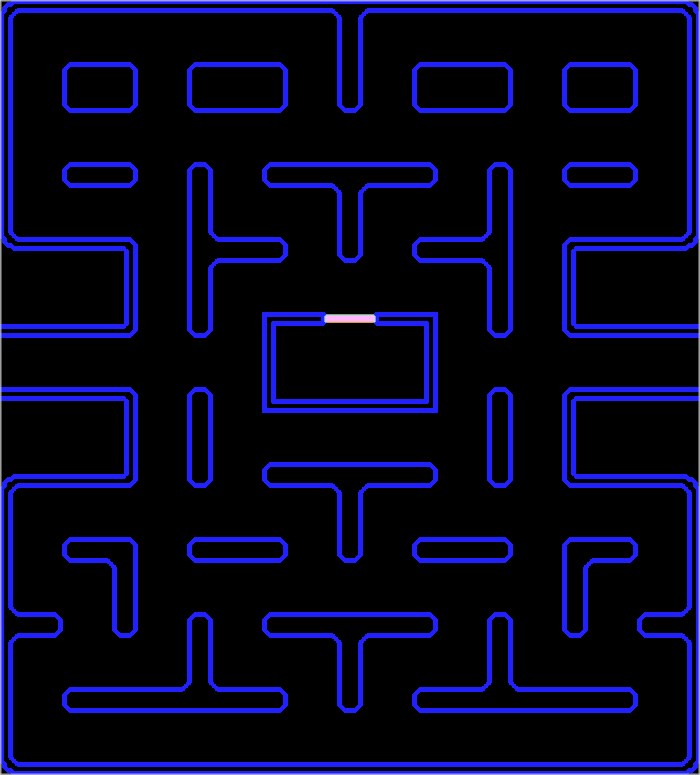
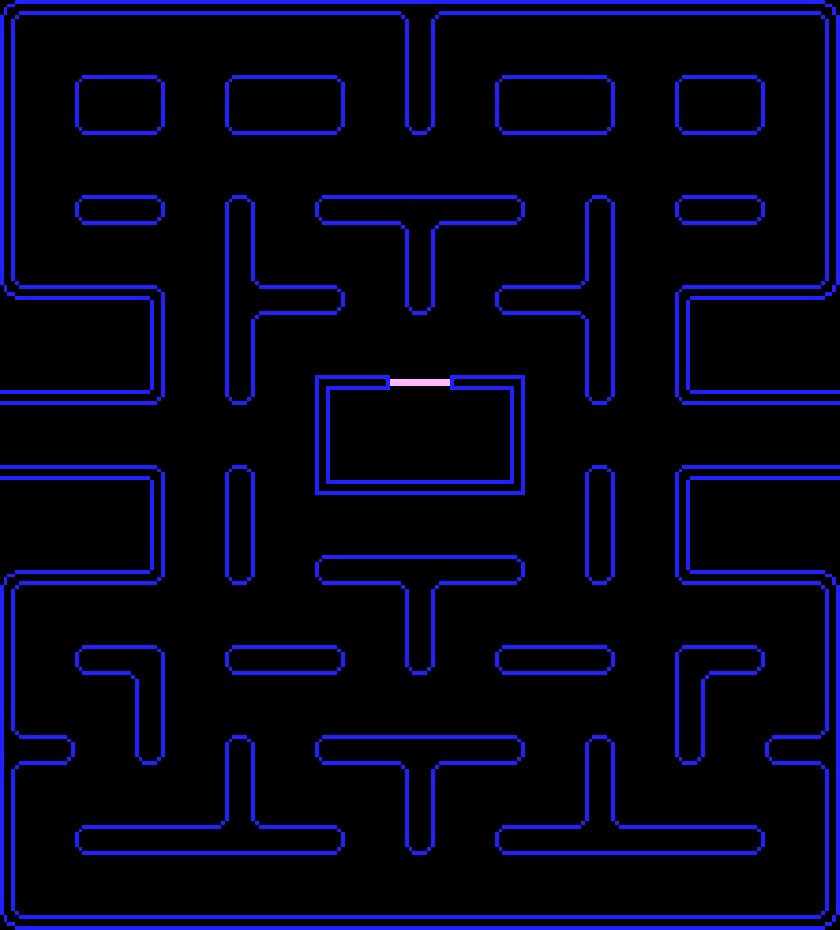
broken collision detection

diff --git a/src/stage.c b/src/stage.c
@@ -20,6 +20,8 @@ static void initMap(void);
 
 static void renderPlayer(void);
 
+static SDL_bool checkCollisions(void);
+
 static void renderMap(void);
 
 static void handlePlayer(void);
@@ -45,8 +47,12 @@ static void initPlayer(void) {
     memset(player, 0, sizeof(PlayerEntity));
     stage.player = player;
 
-    player->x = 100;
-    player->y = 100;
+    player->x = 30;
+    player->y = 30;
+
+    player->rect =
+        (SDL_Rect){.w = 25, .h = 25, .x = player->x + 15, .y = player->y + 15};
+
     player->texture = loadTexture("assets/player.png");
     SDL_QueryTexture(player->texture, NULL, NULL, &player->w, &player->h);
 }
@@ -54,40 +60,75 @@ static void initPlayer(void) {
 static void initMap(void) {
     map = map_load("assets/map");
     map_rectangles(map);
+
+    map->texture = loadTexture("assets/map.png");
+    SDL_QueryTexture(map->texture, NULL, NULL, &player->w, &player->h);
 }
 
 static void logic(void) { handlePlayer(); }
 
 static void handlePlayer(void) {
     player->dx = player->dy = 0;
+    // player->rect.x = player->rect.x = 0;
 
-    if (app.keyboard[SDL_SCANCODE_UP]) {
-        player->dy = -PLAYER_SPEED;
-    }
-    if (app.keyboard[SDL_SCANCODE_DOWN]) {
-        player->dy = PLAYER_SPEED;
-    }
-    if (app.keyboard[SDL_SCANCODE_LEFT]) {
-        player->dx = -PLAYER_SPEED;
-    }
-    if (app.keyboard[SDL_SCANCODE_RIGHT]) {
-        player->dx = PLAYER_SPEED;
+    if (checkCollisions()) {
+        if (app.keyboard[SDL_SCANCODE_UP]) {
+            player->dy = -PLAYER_SPEED;
+            player->dx = 0;
+            player->rect.y -= PLAYER_SPEED;
+        } else if (app.keyboard[SDL_SCANCODE_DOWN]) {
+            player->dy = PLAYER_SPEED;
+            player->dx = 0;
+            player->rect.y += PLAYER_SPEED;
+        } else if (app.keyboard[SDL_SCANCODE_LEFT]) {
+            player->dx = -PLAYER_SPEED;
+            player->dy = 0;
+            player->rect.x -= PLAYER_SPEED;
+        } else if (app.keyboard[SDL_SCANCODE_RIGHT]) {
+            player->dx = PLAYER_SPEED;
+            player->dy = 0;
+            player->rect.x += PLAYER_SPEED;
+        }
+    } else {
+        player->x--;
+        player->x--;
+        player->rect.x--;
+        player->rect.y--;
     }
 
     player->x += player->dx;
     player->y += player->dy;
 }
 
-static void render(void) {
-    renderPlayer();
-    renderMap();
+static SDL_bool checkCollisions(void) {
+    int j = 0;
+    SDL_Rect res;
+    for (int i = 0; i < map->rectCount; i++) {
+        if (!SDL_IntersectRect(&player->rect, &map->rects[i], &res)) {
+            j++;
+        }
+    }
+    if (j == map->rectCount) {
+        return SDL_TRUE;
+    }
+    return SDL_FALSE;
 }
 
-static void renderPlayer(void) { blit(player->texture, player->x, player->y); }
+static void render(void) {
+    renderMap();
+    renderPlayer();
+}
+
+static void renderPlayer(void) {
+    blit(player->texture, player->x, player->y);
+    SDL_SetRenderDrawColor(app.renderer, 2, 250, 205, 255);
+    SDL_RenderDrawRect(app.renderer, &player->rect);
+}
 
 static void renderMap(void) {
     SDL_SetRenderDrawColor(app.renderer, 0, 0, 255, 255);
     for (int i = 0; i < map->rectCount; i++) {
         SDL_RenderDrawRect(app.renderer, &map->rects[i]);
     }
+    // blit(map->texture, 0, 0);
 }

diff --git a/src/input.c b/src/input.c
@@ -2,8 +2,8 @@
 // Created by filip on 18.11.22.
 //
 
-#include "common.h"
 #include "input.h"
+#include "common.h"
 
 extern App app;
 
@@ -11,30 +11,38 @@ void handleInput(void) {
     SDL_Event event;
     while (SDL_PollEvent(&event)) {
         switch (event.type) {
-            case SDL_QUIT:
-                exit(0);
-                break;
-            case SDL_KEYDOWN:
-                handleKeyDown(&event.key);
-                break;
-            case SDL_KEYUP:
-                handleKeyUp(&event.key);
-                break;
-            default:
-                break;
+        case SDL_QUIT:
+            exit(0);
+            break;
+        case SDL_KEYDOWN:
+            handleKeyDown(&event.key);
+            break;
+        case SDL_KEYUP:
+            handleKeyUp(&event.key);
+            break;
+        default:
+            break;
         }
     }
 }
 
+void resetKeys(SDL_KeyboardEvent *event) {
+    app.keyboard[SDL_SCANCODE_UP] = 0;
+    app.keyboard[SDL_SCANCODE_DOWN] = 0;
+    app.keyboard[SDL_SCANCODE_LEFT] = 0;
+    app.keyboard[SDL_SCANCODE_RIGHT] = 0;
+}
+
 void handleKeyDown(SDL_KeyboardEvent *event) {
-    if (event->repeat == 0 && event->keysym.scancode < MAX_KEYBOARD_KEYS)
-    {
+    if (event->repeat == 0 && event->keysym.scancode < MAX_KEYBOARD_KEYS) {
+        resetKeys(event);
         app.keyboard[event->keysym.scancode] = 1;
     }
 }
 
 void handleKeyUp(SDL_KeyboardEvent *event) {
     if (event->repeat == 0 && event->keysym.scancode < MAX_KEYBOARD_KEYS) {
-        app.keyboard[event->keysym.scancode] = 0;
+        // resetKeys();
+        // app.keyboard[event->keysym.scancode] = 0;
     }
 }

diff --git a/src/types.h b/src/types.h
@@ -27,6 +27,7 @@ typedef struct {
     float y;
     float dx;
     float dy;
+    SDL_Rect rect;
     SDL_Texture *texture;
 } PlayerEntity;
 
@@ -35,6 +36,7 @@ typedef struct {
     int height;
     int *data;
     int rectCount;
+    SDL_Texture *texture;
     SDL_Rect *rects;
 } Map;
 
@@ -43,4 +45,4 @@ typedef struct {
     Map *map;
 } Stage;
 
-#endif // WAKAWAKA_TYPES_H
+#endif   // WAKAWAKA_TYPES_H

diff --git a/src/input.h b/src/input.h
@@ -5,9 +5,11 @@
 #ifndef WAKAWAKA_INPUT_H
 #define WAKAWAKA_INPUT_H
 
+#include "common.h"
+
 void handleInput(void);
 void handleKeyDown(SDL_KeyboardEvent *event);
 void doKeyUp(SDL_KeyboardEvent *event);
 void handleKeyUp(SDL_KeyboardEvent *event);
 
-#endif //WAKAWAKA_INPUT_H
+#endif   // WAKAWAKA_INPUT_H

diff --git a/src/config.h b/src/config.h
@@ -5,10 +5,12 @@
 #ifndef WAKAWAKA_CONFIG_H
 #define WAKAWAKA_CONFIG_H
 
-#define SCREEN_WIDTH  700
-#define SCREEN_HEIGHT 775
+#define SCREEN_WIDTH  840
+#define SCREEN_HEIGHT 930
 
 #define PLAYER_SPEED 1
+
+#define TILE_SIZE 30
 
 #define MAX_KEYBOARD_KEYS 350
 

diff --git a/src/map.c b/src/map.c
@@ -4,8 +4,8 @@
 
 #include "map.h"
 
-#define RECT_WIDTH  25
-#define RECT_HEIGHT 25
+#define RECT_WIDTH  TILE_SIZE
+#define RECT_HEIGHT TILE_SIZE
 
 static Map *map_create(int width, int height) {
     Map *map = malloc(sizeof(Map));
